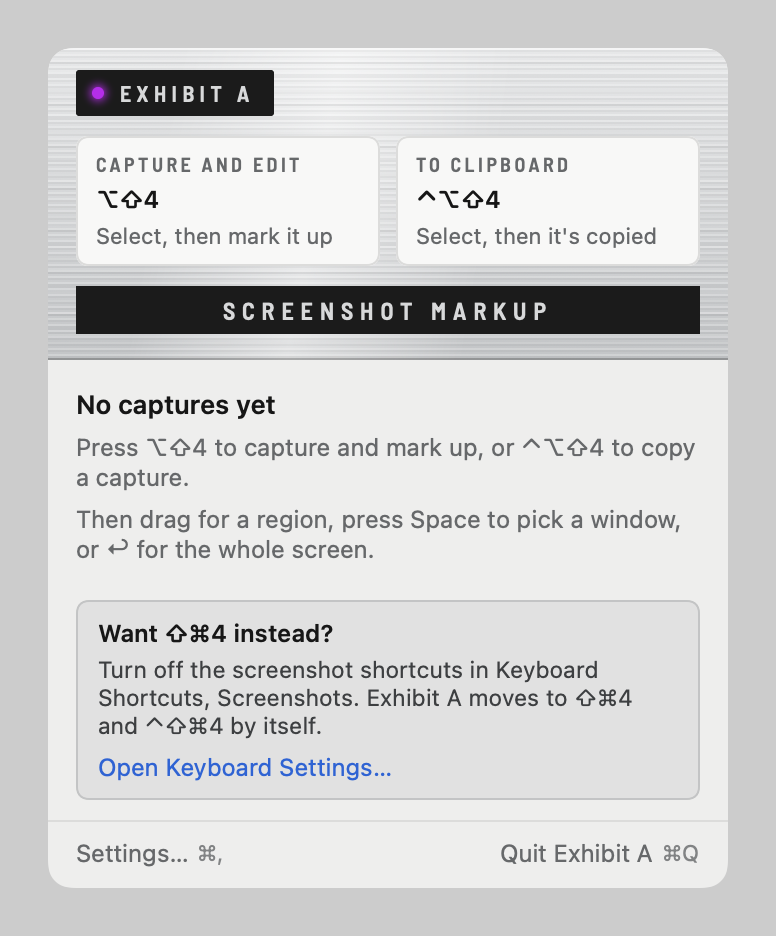
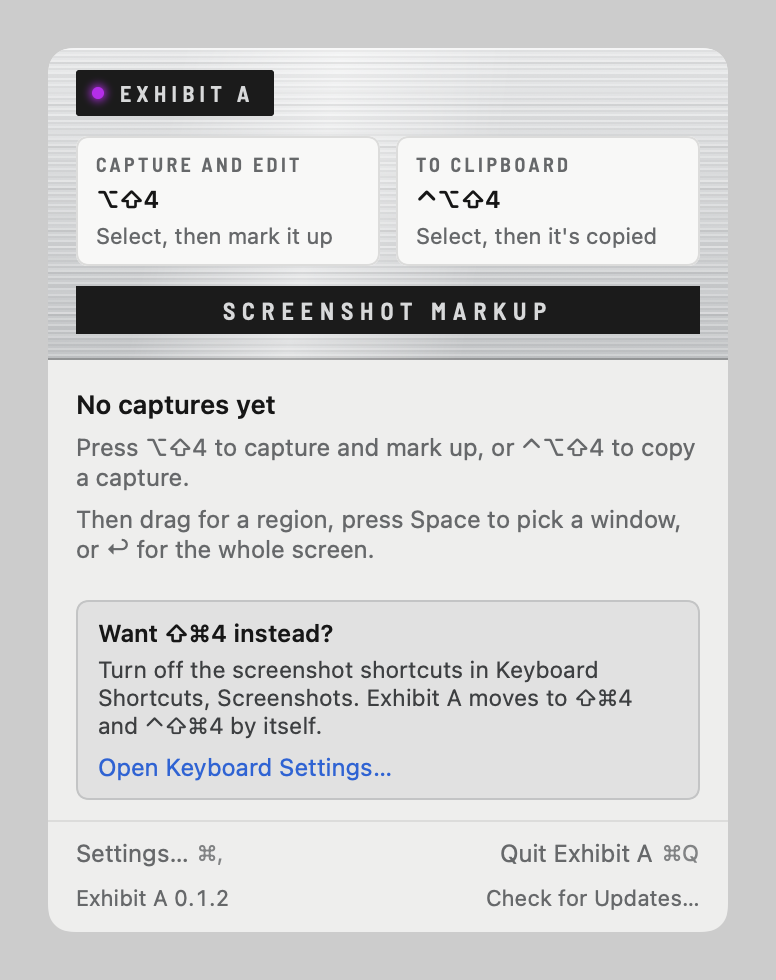
Check for updates at launch and from the panel (#97)
* Decide when launch should look for an update

Issue 94: Sparkle's schedule is about daily and skips launch, so 0.1.0
never heard of 0.1.1 or 0.1.2. A launch check is due when automatic
checks are on and the last check is over an hour old, missing, or in
the future.

* Look for an update at launch when the last check is over an hour old

Sparkle starts once the app has launched and, when a check is due,
runs checkForUpdatesInBackground right after starting, as its header
asks. Nothing shows unless an update exists; it runs once per launch
and never under the test seam or with a placeholder key.

* Show the version and Check for Updates in the panel

Issue 94: the only manual check was at the bottom of Settings. A line
under the panel's footer now shows "Exhibit A <version>" and, when the
updater is configured, Check for Updates, which closes the panel and
runs the same Sparkle check as Settings. Unconfigured builds show the
version only.

* Render the panel with the version and update line

* Test that the panel's Check for Updates reaches the updater

* Describe the launch check and the panel's update line

---------

Changed region(s): [[0.0619, 0.062, 0.9588, 0.9295], [0.6186, 0.8365, 0.8969, 0.9295]]

diff --git a/ExhibitAE2ETests/UpdateFooterTests.swift b/ExhibitAE2ETests/UpdateFooterTests.swift
@@ -1,0 +1,56 @@
+import AppKit
+@testable import ExhibitA
+import SwiftUI
+import XCTest
+
+/// Issue 94: the panel's Check for Updates reaches the updater's `checkNow`, and builds without a configured updater
+/// (this test host) show the version only.
+@MainActor
+final class UpdateFooterTests: XCTestCase {
+    private var window: NSWindow?
+
+    override func setUp() async throws {
+        try E2E.begin()
+    }
+
+    override func tearDown() async throws {
+        window?.orderOut(nil)
+        window = nil
+        E2E.closeEverything()
+    }
+
+    func testCheckForUpdatesInThePanelCallsTheUpdater() async throws {
+        var checks = 0
+        let frames = PanelFrames()
+        var actions = PanelActions()
+        actions.reportFrame = { frames.byName[$0] = $1 }
+        let updates = UpdateSettings(isConfigured: true, version: "9.9.9", checkNow: { checks += 1 })
+        let hosting = NSHostingView(rootView: PanelView(model: E2E.model, actions: actions, updates: updates))
+        hosting.frame = NSRect(origin: .zero, size: hosting.fittingSize)
+        let window = NSWindow(contentRect: hosting.frame, styleMask: [.borderless], backing: .buffered, defer: false)
+        window.contentView = hosting
+        window.isReleasedWhenClosed = false
+        window.orderFront(nil)
+        self.window = window
+        await E2E.wait("the button to be laid out") { frames.byName["check for updates"] != nil }
+        await E2E.settle(200)
+
+        let button = try XCTUnwrap(frames.byName["check for updates"])
+        let panel = try XCTUnwrap(frames.byName["panel"])
+        let y = button.midY - panel.minY
+        let point = hosting.convert(NSPoint(x: button.midX - panel.minX,
+                                            y: hosting.isFlipped ? y : hosting.bounds.height - y), to: nil)
+        Events.click(at: point, in: window)
+        await E2E.wait("the check") { checks == 1 }
+        XCTAssertEqual(checks, 1, "one click, one check")
+    }
+
+    func testTheRealPanelShowsNoCheckWithoutAConfiguredUpdater() async throws {
+        XCTAssertFalse(Updater.isConfigured, "the test seam keeps Sparkle off")
+        let controller = try XCTUnwrap(E2E.app.statusItem)
+        try await PanelTests.ensureShown(controller)
+        await E2E.wait("the panel to lay out") { controller.frames.byName["panel"] != nil }
+        await E2E.settle(300)
+        XCTAssertNil(controller.frames.byName["check for updates"], "version only")
+    }
+}

diff --git a/App/Panel/PanelView.swift b/App/Panel/PanelView.swift
@@ -25,6 +25,8 @@ struct PanelActions {
 struct PanelView: View {
     let model: AppModel
     let actions: PanelActions
+    /// The version and Check for Updates. Unconfigured (tests, renders, development builds) shows the version only.
+    var updates = UpdateSettings()
 
     var body: some View {
         Panel(accent: Brand.accent) {
@@ -47,7 +49,10 @@ struct PanelView: View {
                 history
             }
         } footer: {
-            Footer(appName: Brand.name, openSettings: actions.openSettings, quit: actions.quit)
+            VStack(spacing: 0) {
+                Footer(appName: Brand.name, openSettings: actions.openSettings, quit: actions.quit)
+                UpdateStrip(updates: updates, actions: actions)
+            }
         }
         .reportingFrame("panel", to: actions)
     }
@@ -110,6 +115,40 @@ struct HotkeyTiles: View {
         .help("Change or swap the hotkeys in Settings")
         .accessibilityLabel("\(action.title), \(combo). \(does). Opens Settings to change it.")
         .reportingFrame("hotkey \(action.rawValue)", to: actions)
+    }
+}
+
+/// Under the footer: the version on the left and Check for Updates on the right (issue 94), so an update is one
+/// click from the menu bar. The check is Sparkle's, the same as Settings' button.
+struct UpdateStrip: View {
+    let updates: UpdateSettings
+    var actions = PanelActions()
+
+    @Environment(\.panelTheme) private var theme
+
+    var body: some View {
+        HStack(spacing: 8) {
+            Text("\(Brand.name) \(updates.version)")
+                .font(PanelFont.body(11))
+                .monospacedDigit()
+                .foregroundStyle(theme.sub)
+                .accessibilityLabel("Version \(updates.version)")
+            Spacer(minLength: 8)
+            if updates.isConfigured {
+                Button(action: updates.checkNow) {
+                    Text("Check for Updates…")
+                        .font(PanelFont.body(11))
+                        .contentShape(Rectangle())
+                }
+                .buttonStyle(.plain)
+                .foregroundStyle(theme.sub)
+                .reportingFrame("check for updates", to: actions)
+            }
+        }
+        .lineLimit(1)
+        .padding(.top, -2)
+        .padding(.bottom, 10)
+        .padding(.horizontal, 14)
     }
 }
 

diff --git a/App/Shell/AppDelegate.swift b/App/Shell/AppDelegate.swift
@@ -26,6 +26,7 @@ final class AppDelegate: NSObject, NSApplicationDelegate {
         if TestSeam.isActive, !TestSeam.allowsCapture { ScreenRecording.forcedOff = true }
         PanelFont.register()
         if !TestSeam.isActive { LaunchAtLogin.applyDefault() }
+        updater.start()
 
         let store = CaptureStore(directory: (try? TestSeam.capturesDirectory())
             ?? FileManager.default.temporaryDirectory.appendingPathComponent("Exhibit A Captures"))
@@ -67,10 +68,7 @@ final class AppDelegate: NSObject, NSApplicationDelegate {
             self?.refreshSystemState()
         }
         self.settingsWindow = settingsWindow
-        let statusItem = StatusItemController(model: model, actions: panelActions(model: model)) { [weak self] in
-            self?.refreshSystemState()
-            Task { await model.reload() }
-        }
+        let statusItem = makeStatusItem(model: model)
         self.statusItem = statusItem
         wire(capture, to: statusItem)
         editors.willOpen = { [weak statusItem] in statusItem?.close() }
@@ -127,6 +125,14 @@ final class AppDelegate: NSObject, NSApplicationDelegate {
         guard let model else { return }
         model.permission = ScreenRecording.state
         model.updateSystemShortcuts(SystemShortcuts.read())
+    }
+
+    /// The menu bar item and its panel, which reads the system state and history again each time it opens.
+    private func makeStatusItem(model: AppModel) -> StatusItemController {
+        StatusItemController(model: model, actions: panelActions(model: model), updates: updater.settings) { [weak self] in
+            self?.refreshSystemState()
+            Task { await model.reload() }
+        }
     }
 
     private func panelActions(model: AppModel) -> PanelActions {

diff --git a/Packages/ExhibitCore/Tests/ExhibitShellTests/UpdateCheckScheduleTests.swift b/Packages/ExhibitCore/Tests/ExhibitShellTests/UpdateCheckScheduleTests.swift
@@ -1,0 +1,34 @@
+import ExhibitShell
+import Foundation
+import Testing
+
+@Suite struct UpdateCheckScheduleTests {
+    private let now = Date(timeIntervalSinceReferenceDate: 800_000_000)
+
+    @Test func checksWhenTheLastCheckIsOverAnHourOld() {
+        let old = now.addingTimeInterval(-3601)
+        #expect(UpdateCheckSchedule.isDueAtLaunch(lastCheck: old, now: now, checksAutomatically: true))
+        #expect(UpdateCheckSchedule.isDueAtLaunch(lastCheck: now.addingTimeInterval(-86_400 * 9), now: now,
+                                                  checksAutomatically: true))
+    }
+
+    @Test func waitsWithinTheHour() {
+        #expect(!UpdateCheckSchedule.isDueAtLaunch(lastCheck: now.addingTimeInterval(-3599), now: now,
+                                                   checksAutomatically: true))
+        #expect(!UpdateCheckSchedule.isDueAtLaunch(lastCheck: now.addingTimeInterval(-3600), now: now,
+                                                   checksAutomatically: true), "exactly an hour is not more")
+        #expect(!UpdateCheckSchedule.isDueAtLaunch(lastCheck: now, now: now, checksAutomatically: true))
+    }
+
+    @Test func checksWhenNeverCheckedOrTheClockMovedBack() {
+        #expect(UpdateCheckSchedule.isDueAtLaunch(lastCheck: nil, now: now, checksAutomatically: true))
+        #expect(UpdateCheckSchedule.isDueAtLaunch(lastCheck: now.addingTimeInterval(600), now: now,
+                                                  checksAutomatically: true))
+    }
+
+    @Test func neverChecksWithAutomaticChecksOff() {
+        for last in [nil, now.addingTimeInterval(-86_400), now] as [Date?] {
+            #expect(!UpdateCheckSchedule.isDueAtLaunch(lastCheck: last, now: now, checksAutomatically: false))
+        }
+    }
+}

diff --git a/App/Updates/Updater.swift b/App/Updates/Updater.swift
@@ -1,3 +1,4 @@
+import ExhibitShell
 import Foundation
 import Sparkle
 
@@ -10,11 +11,28 @@ final class Updater {
         return !key.isEmpty && !key.hasPrefix("REPLACE_WITH") && !TestSeam.isActive
     }
 
+    /// Started from `start()` once the app has launched, so the launch check can follow it at once, as Sparkle asks.
     private let controller = SPUStandardUpdaterController(
-        startingUpdater: Updater.isConfigured,
+        startingUpdater: false,
         updaterDelegate: nil,
         userDriverDelegate: nil
     )
+    private var started = false
+
+    /// Starts Sparkle, then looks for an update in the background when one is due (`UpdateCheckSchedule`): with
+    /// automatic checks on and the last check over an hour old. Nothing shows unless an update exists. Once per
+    /// launch; never under the test seam or with a placeholder key.
+    func start(now: Date = Date()) {
+        guard Self.isConfigured, !started else { return }
+        started = true
+        controller.startUpdater()
+        let updater = controller.updater
+        // Sparkle: call checkForUpdatesInBackground only immediately after starting, and only with automatic checks on.
+        if UpdateCheckSchedule.isDueAtLaunch(lastCheck: updater.lastUpdateCheckDate, now: now,
+                                             checksAutomatically: updater.automaticallyChecksForUpdates) {
+            updater.checkForUpdatesInBackground()
+        }
+    }
 
     var checksAutomatically: Bool {
         get { controller.updater.automaticallyChecksForUpdates }

diff --git a/App/Shell/StatusItemController.swift b/App/Shell/StatusItemController.swift
@@ -12,7 +12,8 @@ final class StatusItemController {
     /// Where the panel's rows and their buttons were laid out, for the end-to-end tests.
     let frames: PanelFrames
 
-    init(model: AppModel, actions: PanelActions, willShow: @escaping () -> Void) {
+    init(model: AppModel, actions: PanelActions, updates: UpdateSettings = UpdateSettings(),
+         willShow: @escaping () -> Void) {
         self.willShow = willShow
         // New status items start at the far left on recent macOS, which is off-screen on a crowded menu bar.
         UserDefaults.standard.register(defaults: ["NSStatusItem Preferred Position \(Self.autosaveName)": 1])
@@ -39,7 +40,14 @@ final class StatusItemController {
             popover.performClose(nil)
             openHotkeySettings()
         }
-        let hosting = NSHostingController(rootView: PanelView(model: model, actions: panelActions))
+        var panelUpdates = updates
+        let checkNow = updates.checkNow
+        panelUpdates.checkNow = {
+            popover.performClose(nil)
+            checkNow()
+        }
+        let hosting = NSHostingController(rootView: PanelView(model: model, actions: panelActions,
+                                                                updates: panelUpdates))
         hosting.sizingOptions = .preferredContentSize
         self.hosting = hosting
         popover.contentViewController = hosting

diff --git a/ExhibitAViewTests/PanelRenderTests.swift b/ExhibitAViewTests/PanelRenderTests.swift
@@ -138,6 +138,9 @@ final class PanelRenderTests: XCTestCase {
         XCTAssertNil(model.captureRefusal)
     }
 
+    /// A released build's updater, so the panel shows the version and Check for Updates.
+    static let updates = UpdateSettings(isConfigured: true, version: "0.1.2", checksAutomatically: true)
+
     static let takenOver = SystemScreenshotShortcuts(symbolicHotKeys: [
         "30": ["enabled": false], "31": ["enabled": false]
     ] as [String: Any])
@@ -236,7 +239,7 @@ final class PanelRenderTests: XCTestCase {
     /// PanelKit's own path: `ImageRenderer` over a backdrop, no window.
     private func renderPanel(_ model: AppModel, name: String, schemes: [ColorScheme] = [.light, .dark]) throws {
         for scheme in schemes {
-            let view = PanelView(model: model, actions: PanelActions())
+            let view = PanelView(model: model, actions: PanelActions(), updates: Self.updates)
                 .padding(24)
                 .background(scheme == .dark ? Color(white: 0.05) : Color(white: 0.8))
                 .environment(\.colorScheme, scheme)

diff --git a/Packages/ExhibitCore/Sources/ExhibitShell/UpdateCheckSchedule.swift b/Packages/ExhibitCore/Sources/ExhibitShell/UpdateCheckSchedule.swift
@@ -1,0 +1,17 @@
+import Foundation
+
+/// Whether to look for an update at launch (issue 94). Sparkle's own schedule is about daily and does not run at
+/// launch, so a Mac that only runs Exhibit A now and then could go weeks without hearing of a release.
+public enum UpdateCheckSchedule {
+    /// How old the last check must be before launch checks again.
+    public static let minimumAge: TimeInterval = 60 * 60
+
+    /// Due when automatic checks are on and the last check is more than `minimumAge` old, never happened, or is in
+    /// the future (the clock was set back).
+    public static func isDueAtLaunch(lastCheck: Date?, now: Date, checksAutomatically: Bool) -> Bool {
+        guard checksAutomatically else { return false }
+        guard let lastCheck else { return true }
+        let age = now.timeIntervalSince(lastCheck)
+        return age > minimumAge || age < 0
+    }
+}

diff --git a/CLAUDE.md b/CLAUDE.md
@@ -86,7 +86,7 @@ Judge build, test and lint by exit code, never by grepping output.
   - `Shell/`: `AppDelegate` wires everything; `AppModel` (`@Observable`: history, thumbnails, permission, bindings, retention; file work off the main thread); `StatusItemController` (glyph and popover); `Glyph` (mac-app-kit's exhibit plate glyph, a window outline cut clear around a solid disc with the A cut out, drawn in code as a template image; agent captures blink its opacity); `Brand` (name and the `#b42ee8` pilot-light accent); the app icon is `App/Assets.xcassets`, rendered from mac-app-kit's `icons/exhibit`; `Preferences`; `LaunchAtLogin` (`SMAppService`, registered once by default in release builds only).
   - `Hotkeys/`: `HotkeyCenter` writes the keys in effect into KeyboardShortcuts (Carbon `RegisterEventHotKey`, no Accessibility) whenever bindings change.
   - `Capture/`: `SystemLinks` (`CGPreflightScreenCaptureAccess` only; `CGRequestScreenCaptureAccess` only from a button; reading the symbolic hot keys; System Settings links), `SelectionOverlay` (a non-activating panel per display showing that display's still from the hotkey, so the screen looks frozen: drag, Space for a window, ↩ for the display, Esc, which gives the key back to whichever of our windows had it), `ScreenCapturer` (`SCScreenshotManager`; `freeze` takes a still of every display at once with Exhibit A's own windows included and never-capture apps blacked out, `cut` copies a selection out of a still through `SelectionGeometry.stillPixels`; the live `capture(_:policy:)` and `capture(windowID:)` are the bridge's and still leave our own windows out), `CaptureController` (issue 72: on the hotkey it reads the permission without touching the model, freezes, then shows the overlay; nothing of ours appears, closes or redraws first. A window pick is the window's frame cut out of the still (`SelectionGeometry.region(forWindow:)`), so only what was visible of it; never-capture picks are still refused. The panel is held open through the overlay (`holdPanel`), closed only once a capture is taken, left as it was on Esc; `didFinish` refreshes the system state afterwards. Then capture to history, clipboard PNG for capture to clipboard, `TargetFinder` in the background, its result routed through `OpenCaptures`). Capture and edit opens the editor centred on the display the capture came from. `CopiedNote` is the "Copied to clipboard" note after a capture to the clipboard: a non-activating panel that ignores clicks, low on the capture's display, gone after about 1.4 s.
-  - `Updates/Updater`: `SPUStandardUpdaterController`, feed on the GitHub release's `appcast.xml`, automatic checks on by default. It never starts while `SPARKLE_PUBLIC_ED_KEY` (project.yml) is the placeholder. Settings sees it as `UpdateSettings`, so renders build without Sparkle.
+  - `Updates/Updater`: `SPUStandardUpdaterController`, feed on the GitHub release's `appcast.xml`, automatic checks on by default. It never starts while `SPARKLE_PUBLIC_ED_KEY` (project.yml) is the placeholder or under `TestSeam` (`Updater.isConfigured`). `AppDelegate` calls `Updater.start()` once at launch: it starts Sparkle and, when `UpdateCheckSchedule.isDueAtLaunch` (ExhibitShell: automatic checks on and `lastUpdateCheckDate` over an hour old, missing or in the future) says so, calls `checkForUpdatesInBackground()` straight after, as Sparkle's header asks; nothing shows unless an update exists (issue 94). Settings and the panel see it as `UpdateSettings`, so renders build without Sparkle; the panel's `UpdateStrip` under the footer shows the version and, when configured, Check for Updates (`checkNow`, same as Settings).
   - The `ExhibitCLI` tool target compiles `Packages/ExhibitCore/Sources/exhibit` into `Contents/MacOS/exhibit` (universal, hardened runtime, signed on copy). `CommandLineTool` (ExhibitShell) finds and links it onto the PATH without an administrator; `CommandLineSection` is its Settings row with the `claude mcp add` line. The cask draft is `Scripts/homebrew/exhibit-a.rb`.
   - `Panel/`, `Settings/`: SwiftUI over `AppModel` with action structs, so renders pass fixture models and no-op actions. `ShortcutsSection` (Settings, Editor shortcuts: one row per remappable command from `AppModel.shortcutRows`, `ShortcutRecorder`, a key field reading the next key through a local `NSEvent` monitor while recording, since `KeyboardShortcuts.Recorder` refuses bare letters; Reset per row and Reset All; refusals shown on the row). `AppModel.keymap` comes from `Preferences.editorKeymap` (`customEditorKeys`) and reaches open editors through `onKeymapChanged` and `EditorWindows.apply`. `HotkeysSection` has Swap (`HotkeyBindings.swap`). The panel's hotkey tiles open Settings at Hotkeys (`PanelActions.openHotkeySettings`, `SettingsWindow.show(at:)`, `SettingsNavigation`). `FreeFormSettings` (shared, in `Preferences.defaults`) and `FreeFormSection`: the local model setting and its Test button.
   - `Voice/`: `SpeechTranscription.make()` picks `AnalyzerTranscriber` (`SpeechAnalyzer`, macOS 26+, asset download with progress) or `RecognizerTranscriber` (`SFSpeechRecognizer`, `requiresOnDeviceRecognition`, macOS 14 to 25). Microphone and speech permission are asked only on the first hold of D. `MicrophoneTap` keeps audio in memory; its tap block is built outside any actor because it runs on the audio thread. The microphone needs `com.apple.security.device.audio-input` (`App/ExhibitA.entitlements`) under the hardened runtime.
